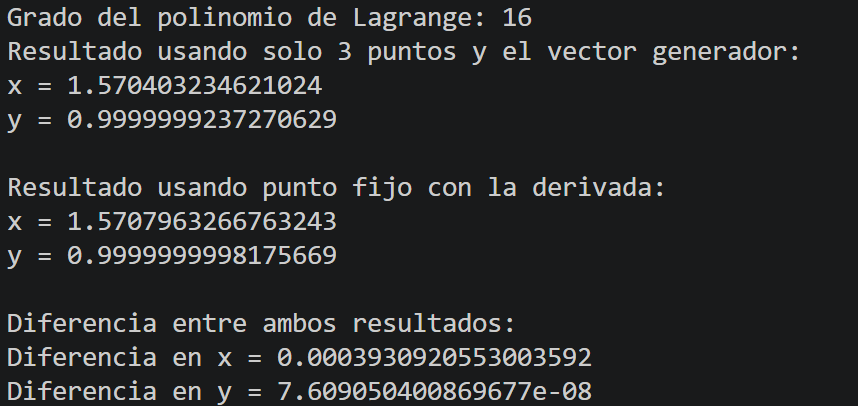
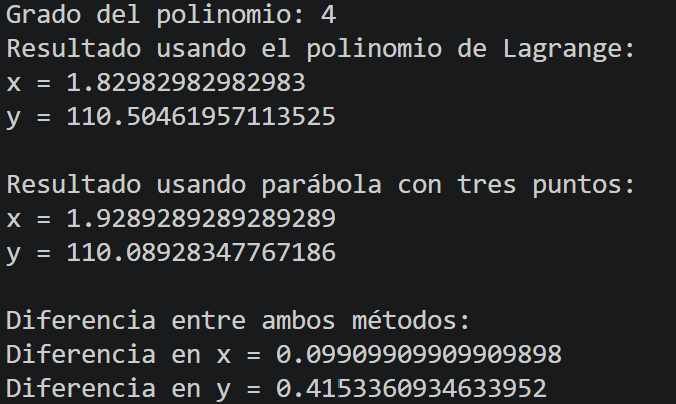
modificacion 1

diff --git a/Maximos y Minimos - P2.py b/Maximos y Minimos - P2.py
@@ -2,94 +2,59 @@ import numpy as np
 import matplotlib.pyplot as plt
 from scipy.interpolate import lagrange
 
+arreglo = [10, 95, 110, 90, 40]
 
-# Creamos el vector del ejemplo de clase
-x = np.linspace(0, 2*np.pi, 17)
+x = np.arange(len(arreglo))
+y = np.array(arreglo)
 
-y = []
-for i in x:
-    y.append(np.sin(i))
+polinomio = lagrange(x, y)
+print("Grado del polinomio:", polinomio.order)
 
-y = np.array(y)
+pos_max = np.argmax(y)
 
+x_vecino = x[pos_max-1:pos_max+2]
+y_vecino = y[pos_max-1:pos_max+2]
 
-# Polinomio interpolante de Lagrange
-Polinomio_Lagrange = lagrange(x, y)
-print("Grado del polinomio de Lagrange:", Polinomio_Lagrange.order)
+parabola = lagrange(x_vecino, y_vecino)
 
+x_parabola = np.linspace(x_vecino[0], x_vecino[-1], 1000)
+y_parabola = parabola(x_parabola)
 
-# Máximo usando el punto máximo y sus vecinos
-indice_max = np.argmax(y)
+pos_parabola = np.argmax(y_parabola)
 
-x_parabola = x[indice_max-1:indice_max+2]
-y_parabola = y[indice_max-1:indice_max+2]
+x_max_parabola = x_parabola[pos_parabola]
+y_max_parabola = y_parabola[pos_parabola]
 
-Parabola = lagrange(x_parabola, y_parabola)
+x_grafica = np.linspace(x[0], x[-1], 1000)
+y_grafica = polinomio(x_grafica)
 
-x_fino_parabola = np.linspace(x_parabola[0], x_parabola[-1], 1000)
-y_fino_parabola = Parabola(x_fino_parabola)
+pos_polinomio = np.argmax(y_grafica)
 
-indice_parabola = np.argmax(y_fino_parabola)
+x_max_polinomio = x_grafica[pos_polinomio]
+y_max_polinomio = y_grafica[pos_polinomio]
 
-x_max_parabola = x_fino_parabola[indice_parabola]
-y_max_parabola = y_fino_parabola[indice_parabola]
+print("Resultado usando el polinomio de Lagrange:")
+print("x =", x_max_polinomio)
+print("y =", y_max_polinomio)
 
-
-
-# 4. Derivada extrapolada del polinomio interpolante
-h = 0.01
-
-def F(x):
-    return Polinomio_Lagrange(x)
-
-def F_derivada_extrapolada(x, h):
-    cd_half = (F(x + h/4) - F(x - h/4)) / (h/2)
-    cd_full = (F(x + h/2) - F(x - h/2)) / h
-    return (4*cd_half - cd_full) / 3
-
-
-# 5. Método de punto fijo usando la derivada
-def punto_fijo(x_inicial, iteraciones):
-    x_actual = x_inicial
-
-    for i in range(iteraciones):
-        x_actual = x_actual + F_derivada_extrapolada(x_actual, h)
-
-    return x_actual
-
-x_max_punto_fijo = punto_fijo(0, 1000)
-y_max_punto_fijo = F(x_max_punto_fijo)
-
-
-
-# 6. Resultados
-print("Resultado usando solo 3 puntos y el vector generador:")
+print("\nResultado usando parábola con tres puntos:")
 print("x =", x_max_parabola)
 print("y =", y_max_parabola)
 
-print("\nResultado usando punto fijo con la derivada:")
-print("x =", x_max_punto_fijo)
-print("y =", y_max_punto_fijo)
+print("\nDiferencia entre ambos métodos:")
+print("Diferencia en x =", abs(x_max_polinomio - x_max_parabola))
+print("Diferencia en y =", abs(y_max_polinomio - y_max_parabola))
 
-print("\nDiferencia entre ambos resultados:")
-print("Diferencia en x =", abs(x_max_parabola - x_max_punto_fijo))
-print("Diferencia en y =", abs(y_max_parabola - y_max_punto_fijo))
-
-
-# 7. Gráfica
-x_fino = np.linspace(0, 2*np.pi, 1000)
-y_fino = F(x_fino)
-
-plt.plot(x_fino, y_fino, 'b', label='Polinomio de Lagrange')
-plt.plot(x_fino_parabola, y_fino_parabola, 'r--', label='Parábola con tres puntos')
+plt.plot(x_grafica, y_grafica, 'b', label='Polinomio de Lagrange')
+plt.plot(x_parabola, y_parabola, 'r--', label='Parábola con tres puntos')
 
 plt.scatter(x, y, color='black', label='Puntos originales')
+plt.scatter(x_max_polinomio, y_max_polinomio, color='blue', marker='o', label='Máximo polinomio')
 plt.scatter(x_max_parabola, y_max_parabola, color='red', marker='x', label='Máximo parábola')
-plt.scatter(x_max_punto_fijo, y_max_punto_fijo, color='blue', marker='o', label='Máximo punto fijo')
 
 plt.xlabel('x')
 plt.ylabel('y')
-plt.title('Comparación del máximo por parábola y punto fijo')
+plt.title('Comparación del máximo del polinomio y la parábola')
 plt.legend()
 plt.grid()
 plt.show()